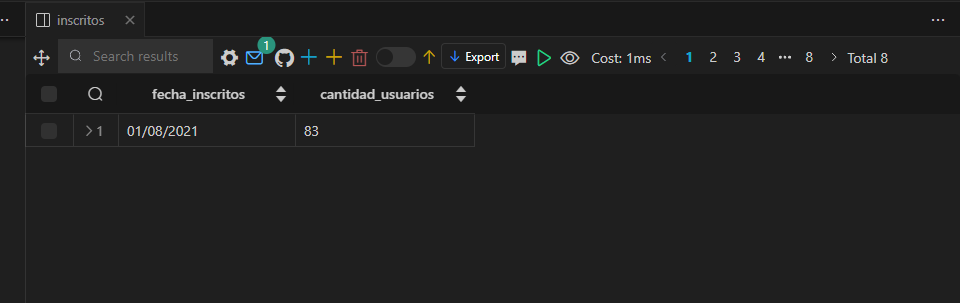
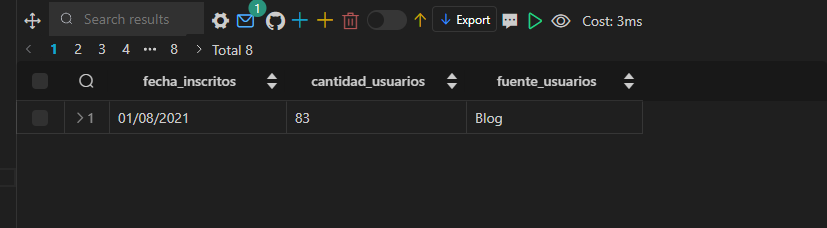
correcciones

diff --git a/desafioSQL-02.md b/desafioSQL-02.md
@@ -95,28 +95,25 @@ LIMIT 1;
 ```
 SELECT 
     to_char(fecha, 'dd/mm/yyyy')    AS fecha_inscritos, 
-    cantidad                        AS cantidad_usuarios 
+    cantidad                        AS cantidad_usuarios,
+    fuente                          AS fuente_usuarios
 FROM inscritos 
 WHERE fuente = 'Blog' 
 ORDER BY cantidad DESC
 LIMIT 1;
 ```
 
-![Alt text](D:\DESAFIO-LATAM\SQL-I\DESAFIO-02\desafioSQL-02\imagenes\8.png)
+![Alt text](D:\DESAFIO-LATAM\SQL-I\DESAFIO-02\desafioSQL-02\imagenes\7.png)
 
 #### 8. ¿Cuál es el promedio de personas inscritas por día? Toma en consideración que la base de datos tiene un registro de 8 días, es decir, se obtendrán 8 promedios.
 
 ```
 SELECT 
     to_char(fecha, 'dd/mm/yyyy')            AS fecha_inscritos, 
-    ROUND(SUM(cantidad) / COUNT(fuente), 3) AS inscritos_por_dia
+    ROUND(SUM(cantidad) / COUNT(fuente), 5) AS inscritos_por_dia
 FROM inscritos
 GROUP BY fecha
 ORDER BY fecha;
-
--- fecha inscritos_por_dia
--- 01-01-2021 50.00000
--- 01-02-2021 60.00000
 ```
 
 ![Alt text](D:\DESAFIO-LATAM\SQL-I\DESAFIO-02\desafioSQL-02\imagenes\8.png)
@@ -129,8 +126,8 @@ SELECT
     SUM(cantidad) AS total_inscritos 
 FROM inscritos 
 GROUP BY fecha  
-HAVING SUM(cantidad) > 50;
- --ORDER BY fecha_inscritos ASC; --ORDEN OPCIONAL
+HAVING SUM(cantidad) > 50
+ORDER BY total_inscritos DESC; --ORDEN OPCIONAL
 ```
 
 ![Alt text](D:\DESAFIO-LATAM\SQL-I\DESAFIO-02\desafioSQL-02\imagenes\9.png)
@@ -150,7 +147,3 @@ ORDER BY fecha ASC;
 ```
 
 ![Alt text](D:\DESAFIO-LATAM\SQL-I\DESAFIO-02\desafioSQL-02\imagenes\10.png)
-
-**-- fecha promedio_diario**
-**-- 01-03-2021 51.5**
-**-- 01-04-2021 46.5**
